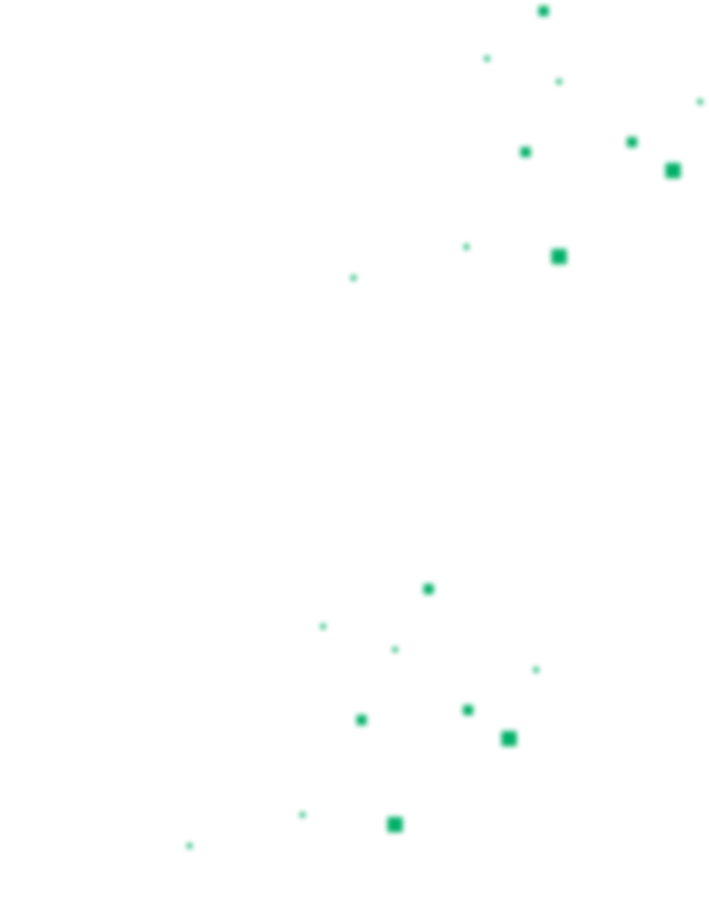
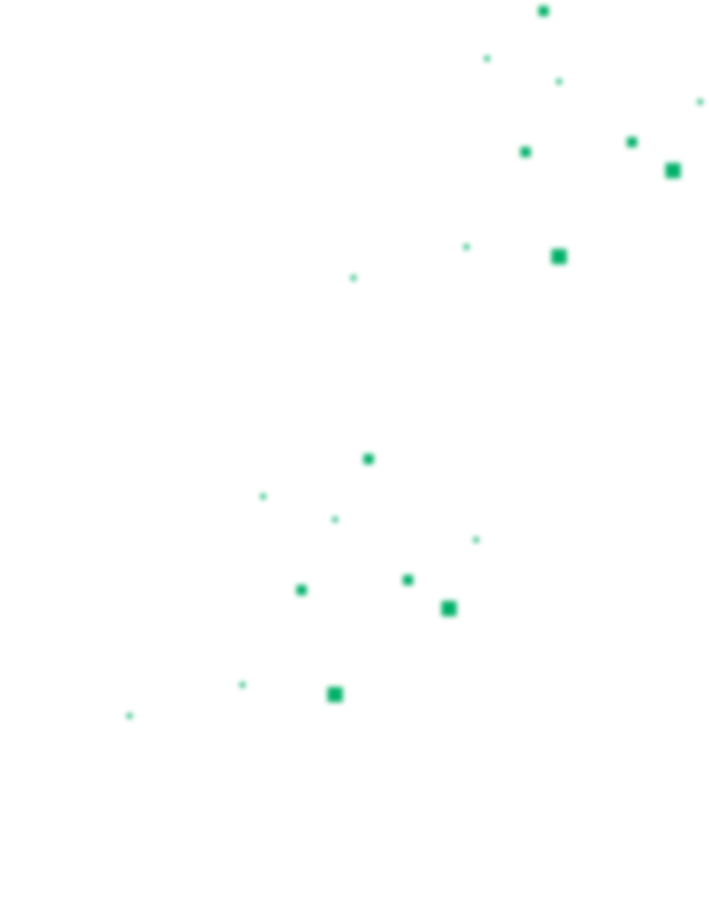
Minor fix

diff --git a/src/js/block/header/index.js b/src/js/block/header/index.js
@@ -42,11 +42,17 @@ document.addEventListener('DOMContentLoaded', function () {
 
 
 // Dark Mode
+const darkModeToggleEl = document.querySelectorAll('.darkModeToggle');
+
 function applyTheme(theme) {
   if (theme === 'dark') {
-    document.getElementById('darkModeToggle').checked = true;
+    darkModeToggleEl.forEach(element => {
+      element.checked = true;
+    });
   } else {
-    document.getElementById('darkModeToggle').checked = false;
+    darkModeToggleEl.forEach(element => {
+      element.checked = false;
+    });
   }
   localStorage.setItem('theme', theme);
   document.documentElement.setAttribute("data-color-scheme", theme);
@@ -66,6 +72,13 @@ window.matchMedia('(prefers-color-scheme: dark)').addEventListener('change', eve
   if (!localStorage.getItem('theme')) {
     applyTheme(event.matches ? 'dark' : 'light');
   }
+});
+
+darkModeToggleEl.forEach(element => {
+  element.addEventListener('change', event => {
+    const newTheme = event.target.checked ? 'dark' : 'light';
+    applyTheme(newTheme);
+  })
 });
 
 document.getElementById('darkModeToggle').addEventListener('change', event => {

diff --git a/src/templates/header.html b/src/templates/header.html
@@ -9,7 +9,7 @@
 
       <div class="switcher switcher__dark_mode">
         <label class="switch">
-          <input type="checkbox" id="darkModeToggle">
+          <input type="checkbox" class="darkModeToggle">
           <span class="slider round"></span>
         </label>
       </div>
@@ -39,6 +39,14 @@
       <li class="header-menu-list"><a href="#section-about_me" class="header-menu-link">About me</a></li>
       <li class="header-menu-list"><a href="#section-projects" class="header-menu-link">Projects</a></li>
       <li class="header-menu-list"><a href="#section-work_together" class="header-menu-link">Contacts</a></li>
+      <li class="header-menu-list">
+        <div class="switcher switcher__dark_mode">
+          <label class="switch">
+            <input type="checkbox" class="darkModeToggle">
+            <span class="slider round"></span>
+          </label>
+        </div>
+      </li>
     </ul>
   </div>
 </header>

diff --git a/src/css/block/hero.css b/src/css/block/hero.css
@@ -1,25 +1,19 @@
 .section.section-hero {
-  background-repeat: no-repeat;
-  background-image: url(../../img/hero/decormob.png);
-
-  @media (min-width: 768px) {
-    background-image: url(../../img/hero/decortablet.png);
-  }
-
-  @media (min-width: 1280px) {
-    background-image: url(../../img/hero/decordesk.png);
-    background-position: 240px 5px;
-  }
 
   .hero-wrap {
     padding: 96px 0 72px;
+    background-repeat: no-repeat;
+    background-image: url(../../img/hero/decormob.png);
 
     @media (min-width: 768px) {
       padding: 72px 0 104px;
+      background-image: url(../../img/hero/decortablet.png);
     }
 
     @media (min-width: 1280px) {
       padding: 88px 0 96px;
+      background-image: url(../../img/hero/decordesk.png);
+      background-position: -27px 5px;
     }
   }
 

diff --git a/src/css/block/header.css b/src/css/block/header.css
@@ -9,13 +9,19 @@ header.header {
     display: flex;
     justify-content: space-between;
     align-items: center;
+
+    > .switcher.switcher__dark_mode {
+      display: none;
+
+      @media (min-width: 768px) {
+        display: block;
+        margin-right: 40px;
+      }
+    }
   }
 
   .switcher.switcher__dark_mode {
     margin-left: auto;
-    @media (min-width: 1280px) {
-      margin-right: 40px;
-    }
   }
 
   .mob-menu-btn {

diff --git a/src/css/block/benefits.css b/src/css/block/benefits.css
@@ -4,7 +4,7 @@
     @media (min-width: 1280px) {
       padding-top: 148px;
       margin-top: -148px;
-      background-image: url("../img/decor_bg/decor_bg_3.png");
+      background-image: url(../../img/decor_bg/decor_bg_3.png);
       background-repeat: no-repeat;
       background-position: right top;
     }

diff --git a/src/css/base.css b/src/css/base.css
@@ -29,14 +29,13 @@ body {
   }
 
   @media (min-width: 768px) {
-    max-width: 704px;
-    padding: 0;
+    max-width: 768px;
+    padding-left: 32px;
+    padding-right: 32px;
   }
 
   @media (min-width: 1280px) {
     max-width: var(--container);
-    padding-left: 32px;
-    padding-right: 32px;
   }
 }
 

diff --git a/src/css/element/button.css b/src/css/element/button.css
@@ -28,7 +28,7 @@
   font-size: 18px;
   line-height: 28px;
   letter-spacing: 0.5px;
-  font-weight: 300;
+  font-weight: 400;
 
   @media (min-width: 768px) {
     padding-right: 167px;

diff --git a/src/css/module/modal.css b/src/css/module/modal.css
@@ -23,6 +23,8 @@
       top: 16px;
       border: none;
       padding: 0;
+      background-color: transparent;
+      cursor: pointer;
     }
 
     .modal-title {
